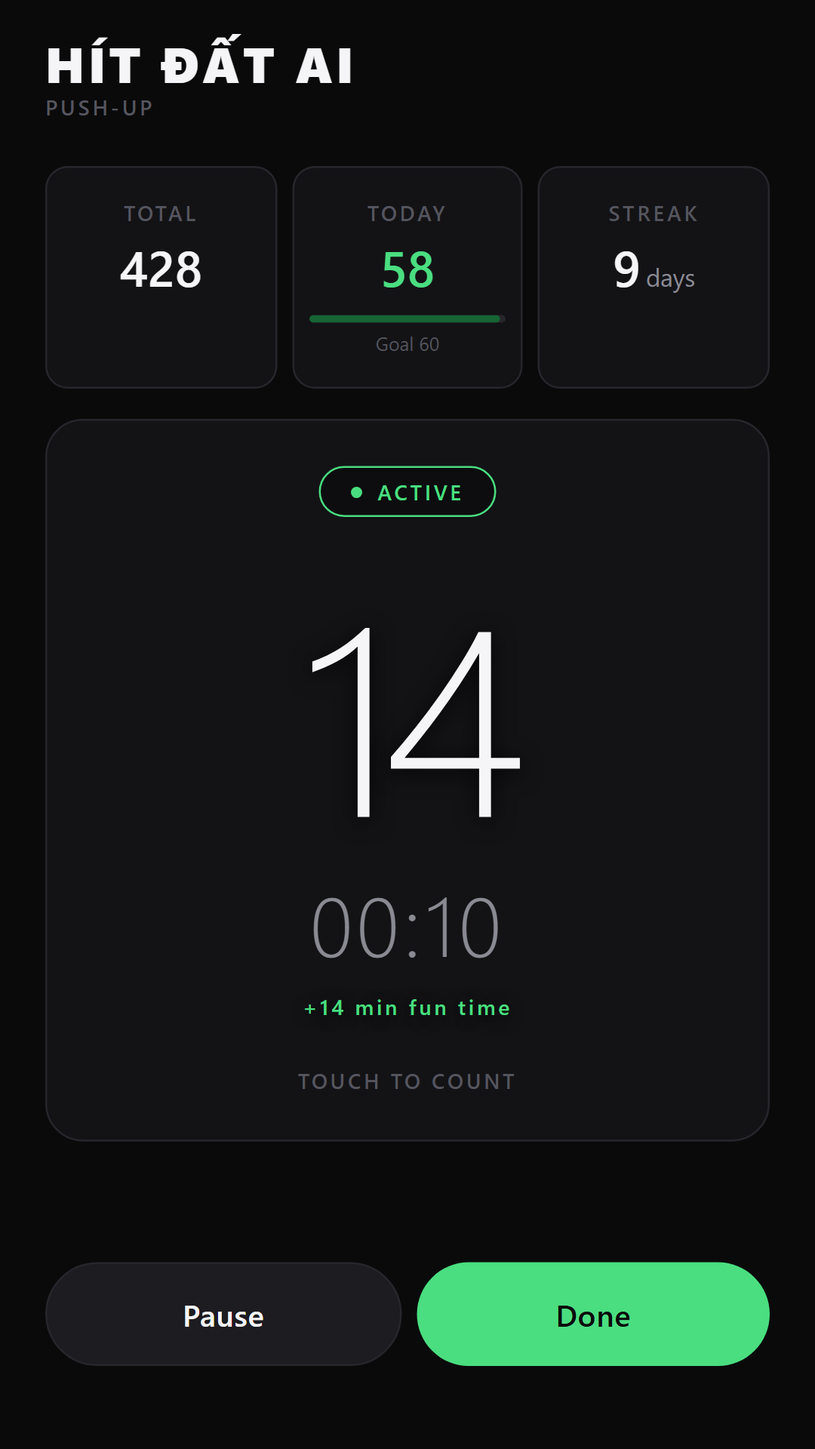
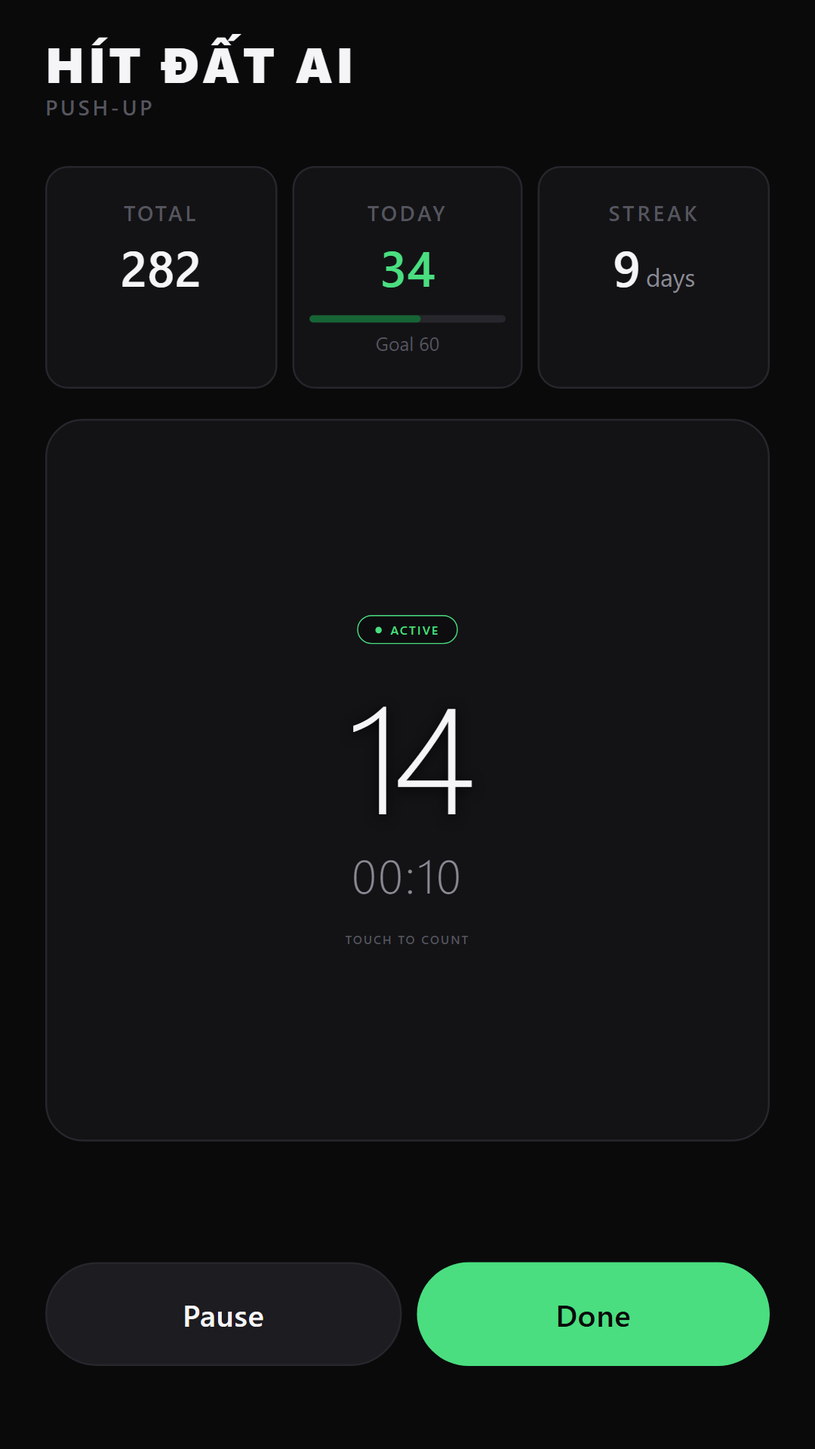
docs: store listing, privacy policy and screenshots for the new features
Listing copy for 38 exercises, the 4-week schedule, backups and
challenges, with a Data safety section; the privacy policy covers backup
files, the local error log and challenge links, all user-initiated.
Screenshots regenerated with `npm run screenshots`.

diff --git a/docs/privacy.html b/docs/privacy.html
@@ -25,13 +25,13 @@
 <body>
 <main>
   <h1>Hít Đất AI — Privacy Policy</h1>
-  <p class="meta">Effective 2 October 2026 · App package <code>com.betuanminh.hitdat</code> · <a href="#vi">Tiếng Việt bên dưới</a></p>
+  <p class="meta">Effective 3 October 2026 · App package <code>com.betuanminh.hitdat</code> · <a href="#vi">Tiếng Việt bên dưới</a></p>
 
   <h2>Summary</h2>
-  <p>Hít Đất AI does not collect, store or share any personal data. Everything the app records — your workouts, program progress, settings and app-blocker choices — stays on your device. There is no account, no analytics, no advertising and no tracking of any kind.</p>
+  <p>Hít Đất AI does not collect, store or share any personal data. Everything the app records — your workouts, schedule progress, settings, challenges and app-blocker choices — stays on your device. There is no account, no analytics, no advertising and no tracking of any kind. The only ways anything leaves your phone are the backup files, reports and challenge links described below, and each of them happens only when you share it yourself.</p>
 
   <h2>Camera</h2>
-  <p>The optional <strong>AI camera</strong> mode uses your front camera to count your reps (push-ups, squats, sit-ups, jumping jacks) by estimating body position. Frames are processed <strong>on your device</strong>, in real time, and are never recorded, stored or uploaded. The camera is only active while a camera-mode workout is running, and you can use the sensor, motion or tap modes instead without ever granting camera access.</p>
+  <p>The optional <strong>AI camera</strong> mode uses your front camera to count your reps and time your holds (38 exercises, such as push-ups, squats and planks) by estimating body position. Frames are processed <strong>on your device</strong>, in real time, and are never recorded, stored or uploaded. The camera is only active while a camera-mode workout is running, and you can use the sensor, motion or tap modes instead without ever granting camera access.</p>
   <p>To run the pose model, the app loads the detector page and the model file over the internet (from GitHub Pages, the jsDelivr CDN and Google Cloud Storage). These are ordinary static file downloads; like any web request they expose your IP address to those hosts, which is not something the app controls or records. No workout data is sent anywhere.</p>
 
   <h2>Motion sensors</h2>
@@ -51,11 +51,22 @@
   <h2>Data stored on your device</h2>
   <ul>
     <li>Workout history: date, rep counts, set durations, which exercise and counting mode was used.</li>
-    <li>Program progress: your test result, level and completed days.</li>
-    <li>Settings: goal, countdown and rest lengths, sound, vibration, voice, language, reminder time.</li>
+    <li>Training schedule progress: your level and completed days.</li>
+    <li>Settings: goal, countdown and rest lengths, sound, vibration, voice, language, reminder time, and the optional name you choose for challenge links.</li>
+    <li>Challenges you sent and received: exercise, scores, the other person's chosen display name, date.</li>
+    <li>"Miscounted?" notes you saved: the exercise, the counted and real numbers, your optional note.</li>
+    <li>A local error log: the last 20 app errors (error message and code location, no personal data), used only in reports you choose to send.</li>
     <li>App blocker: the apps and websites you chose to block, your earned fun time, and whether blocking is on.</li>
   </ul>
   <p>You can delete all of it at any time from <em>Settings → Delete all data</em>, or by uninstalling the app. Android may include this data in your device backup according to your own backup settings.</p>
+
+  <h2>Things you can choose to share</h2>
+  <h3>Backup files</h3>
+  <p><em>Settings → Back up data</em> writes your history, settings, schedule progress and challenges into a JSON file and opens your phone's share sheet; you decide where it goes (Google Drive, a messaging app, email, your files). The app does not upload it anywhere itself, and keeps no copy online. <em>Restore from a backup</em> reads a file you pick and shows what is in it before changing anything.</p>
+  <h3>Feedback and error reports</h3>
+  <p>The app has no crash-reporting service. If something breaks, the error is kept in the local log described above. <em>Send feedback / report a problem</em>, the error screen and <em>Miscounted?</em> each open a plain-text report in your share sheet, so you can read all of it first: the app version, your phone's model and Android version, your language, recent errors, and for a miscount the exercise and the two numbers. Nothing is sent unless you share it, and only to the place you pick.</p>
+  <h3>Challenge links</h3>
+  <p>A challenge link carries the exercise, the format, your score, the date, a random id and the display name you chose (it can be left blank). It is created only when you tap <em>Challenge friends</em> or <em>Rematch</em>, and goes wherever you share it. The challenge is stored in the part of the address after <code>#</code>, which browsers never send to a server, so opening <code>challenge.html</code> on GitHub Pages does not reveal it to GitHub. The page itself collects nothing. Scores are not verified.</p>
 
   <h2>Notifications</h2>
   <p>The daily reminder is a local notification scheduled on your device. Nothing is sent to a server and no push-notification token is created.</p>
@@ -83,13 +94,13 @@
 
   <section class="lang" id="vi" lang="vi">
     <h1>Hít Đất AI — Chính sách quyền riêng tư</h1>
-    <p class="meta">Có hiệu lực từ 02/10/2026 · Gói ứng dụng <code>com.betuanminh.hitdat</code></p>
+    <p class="meta">Có hiệu lực từ 03/10/2026 · Gói ứng dụng <code>com.betuanminh.hitdat</code></p>
 
     <h2>Tóm tắt</h2>
-    <p>Hít Đất AI không thu thập, lưu trữ hay chia sẻ bất kỳ dữ liệu cá nhân nào. Mọi thứ ứng dụng ghi lại — buổi tập, tiến độ chương trình, cài đặt và lựa chọn chặn ứng dụng — đều nằm trên thiết bị của bạn. Không có tài khoản, không phân tích, không quảng cáo, không theo dõi dưới bất kỳ hình thức nào.</p>
+    <p>Hít Đất AI không thu thập, lưu trữ hay chia sẻ bất kỳ dữ liệu cá nhân nào. Mọi thứ ứng dụng ghi lại — buổi tập, tiến độ lịch tập, cài đặt, thách đấu và lựa chọn chặn ứng dụng — đều nằm trên thiết bị của bạn. Không có tài khoản, không phân tích, không quảng cáo, không theo dõi dưới bất kỳ hình thức nào. Dữ liệu chỉ rời khỏi máy qua tệp sao lưu, báo cáo và link thách đấu mô tả bên dưới, và chỉ khi chính bạn chia sẻ.</p>
 
     <h2>Camera</h2>
-    <p>Chế độ <strong>Camera AI</strong> (tuỳ chọn) dùng camera trước để đếm số cái (hít đất, squat, gập bụng, bật nhảy) bằng cách ước lượng tư thế cơ thể. Khung hình được xử lý <strong>ngay trên thiết bị</strong>, theo thời gian thực, không bao giờ được ghi lại, lưu trữ hay tải lên. Camera chỉ hoạt động khi bạn đang tập ở chế độ camera; bạn có thể dùng chế độ Cảm biến, Chuyển động hoặc Chạm mà không cần cấp quyền camera.</p>
+    <p>Chế độ <strong>Camera AI</strong> (tuỳ chọn) dùng camera trước để đếm số cái và tính giờ giữ tư thế (38 bài tập, ví dụ hít đất, squat, plank) bằng cách ước lượng tư thế cơ thể. Khung hình được xử lý <strong>ngay trên thiết bị</strong>, theo thời gian thực, không bao giờ được ghi lại, lưu trữ hay tải lên. Camera chỉ hoạt động khi bạn đang tập ở chế độ camera; bạn có thể dùng chế độ Cảm biến, Chuyển động hoặc Chạm mà không cần cấp quyền camera.</p>
     <p>Để chạy mô hình nhận diện tư thế, ứng dụng tải trang nhận diện và tệp mô hình qua internet (từ GitHub Pages, CDN jsDelivr và Google Cloud Storage). Đây là các tệp tĩnh thông thường; như mọi yêu cầu web, địa chỉ IP của bạn được các máy chủ đó nhìn thấy — ứng dụng không kiểm soát hay ghi lại điều này. Không có dữ liệu tập luyện nào được gửi đi.</p>
 
     <h2>Cảm biến chuyển động</h2>
@@ -109,11 +120,22 @@
     <h2>Dữ liệu lưu trên thiết bị</h2>
     <ul>
       <li>Lịch sử tập: ngày giờ, số cái, thời lượng từng set, bài tập và chế độ đếm đã dùng.</li>
-      <li>Tiến độ chương trình: kết quả kiểm tra, cấp độ, các ngày đã hoàn thành.</li>
-      <li>Cài đặt: mục tiêu, thời gian đếm ngược và nghỉ, âm thanh, rung, giọng đọc, ngôn ngữ, giờ nhắc.</li>
+      <li>Tiến độ lịch tập: cấp độ và các ngày đã hoàn thành.</li>
+      <li>Cài đặt: mục tiêu, thời gian đếm ngược và nghỉ, âm thanh, rung, giọng đọc, ngôn ngữ, giờ nhắc, và tên (tuỳ chọn) hiện trên link thách đấu.</li>
+      <li>Thách đấu đã gửi và nhận: bài tập, điểm, tên hiển thị người kia chọn, ngày.</li>
+      <li>Ghi chú "Đếm sai?" bạn đã lưu: bài tập, số máy đếm và số thực tế, ghi chú tuỳ chọn.</li>
+      <li>Nhật ký lỗi trên máy: 20 lỗi gần nhất của ứng dụng (thông báo lỗi và vị trí trong mã, không có dữ liệu cá nhân), chỉ dùng trong báo cáo bạn chọn gửi.</li>
       <li>Chặn ứng dụng: các ứng dụng và trang web bạn chọn chặn, thời gian giải trí đã kiếm được, và việc chặn đang bật hay tắt.</li>
     </ul>
     <p>Bạn có thể xoá toàn bộ bất cứ lúc nào tại <em>Cài đặt → Xoá toàn bộ dữ liệu</em>, hoặc gỡ ứng dụng. Android có thể đưa dữ liệu này vào bản sao lưu thiết bị theo cài đặt sao lưu của riêng bạn.</p>
+
+    <h2>Những gì bạn có thể chọn chia sẻ</h2>
+    <h3>Tệp sao lưu</h3>
+    <p><em>Cài đặt → Sao lưu dữ liệu</em> ghi lịch sử, cài đặt, tiến độ lịch tập và thách đấu vào một tệp JSON rồi mở bảng chia sẻ của máy; bạn tự chọn nơi lưu (Google Drive, ứng dụng nhắn tin, email, thư mục trên máy). Ứng dụng không tự tải tệp lên đâu và không giữ bản nào trên mạng. <em>Khôi phục từ bản sao lưu</em> đọc tệp bạn chọn và cho xem trước nội dung trước khi thay đổi gì.</p>
+    <h3>Phản hồi và báo lỗi</h3>
+    <p>Ứng dụng không dùng dịch vụ báo lỗi nào. Khi có lỗi, lỗi được giữ trong nhật ký trên máy nêu ở trên. <em>Gửi phản hồi / báo lỗi</em>, màn hình lỗi và <em>Đếm sai?</em> đều mở một báo cáo dạng văn bản trong bảng chia sẻ để bạn đọc hết trước: phiên bản ứng dụng, dòng máy và phiên bản Android, ngôn ngữ, các lỗi gần đây, và với báo cáo đếm sai thì thêm bài tập và hai con số. Không có gì được gửi nếu bạn không chia sẻ, và chỉ tới nơi bạn chọn.</p>
+    <h3>Link thách đấu</h3>
+    <p>Link thách đấu chứa bài tập, thể thức, điểm của bạn, ngày, một mã ngẫu nhiên và tên hiển thị bạn chọn (có thể để trống). Link chỉ được tạo khi bạn bấm <em>Thách bạn bè</em> hoặc <em>Phục thù</em>, và đi tới nơi bạn chia sẻ. Thông tin thách đấu nằm sau dấu <code>#</code> của địa chỉ, phần mà trình duyệt không bao giờ gửi lên máy chủ, nên mở <code>challenge.html</code> trên GitHub Pages không để lộ nó cho GitHub. Trang đó không thu thập gì. Điểm không được kiểm chứng.</p>
 
     <h2>Thông báo</h2>
     <p>Nhắc tập hằng ngày là thông báo cục bộ được lên lịch trên thiết bị. Không có gì được gửi lên máy chủ và không tạo token thông báo đẩy.</p>

diff --git a/store/listing.md b/store/listing.md
@@ -26,48 +26,42 @@ Hít Đất AI: Push-up Counter
 **Short description** (80)
 
 ```
-Hands-free push-up counter. AI camera, 6-week program, goals and streaks.
+AI camera counts 38 exercises hands-free. 4-week plan, streaks and challenges.
 ```
 
 **Full description**
 
 ```
-Put the phone down and just do push-ups. Hít Đất AI counts every rep for you — with the camera, the sensor, or a tap of your nose — and turns them into a habit.
+Put the phone down and just train. Hít Đất AI counts every rep for you — with the camera, the sensor, or a tap — and turns it into a habit.
 
 COUNTS HANDS-FREE
-• Four exercises: push-ups, squats, sit-ups and jumping jacks. Pick one before you start, and it shows you where to put the phone.
-• AI camera: prop the phone up, get into position, and the camera counts your reps and coaches your form ("go lower", "keep your body straight").
-• Sensor mode for push-ups: phone on the floor, cover the sensor at the bottom of each rep.
-• Motion mode: squats with the phone in your pocket, sit-ups with it on your chest, jumping jacks with it in your hand.
-• Tap mode: works on every phone, no camera needed.
+• 38 exercises: push-ups and their variations, squats, lunges, sit-ups, crunches, bridges, burpees, jumping jacks, and holds such as the plank and wall sit, timed in seconds of good form.
+• AI camera: prop the phone up and the camera counts your reps and coaches your form ("go lower", "keep your body straight").
+• A setup card shows where to put the phone for each exercise — side or front, how far, how high — and counting only starts once the camera can see every body part it needs. It tells you what is out of frame.
+• Sensor mode for push-ups, motion mode for squats, sit-ups and jumping jacks, and tap mode on every phone.
 • Voice count says each number out loud so you never look at the screen.
 
-REAL WORKOUTS
-• Countdown before every set so you can get into position.
-• Multiple sets with a rest timer between them.
-• Sound, vibration and voice cues at the start and end of every set.
+A REAL TRAINING PLAN
+• 4-week schedule at three levels — beginner, intermediate, advanced — mixing exercises for the whole body.
+• Countdown before every set, rest timer between sets, sound, vibration and voice cues.
 
-6-WEEK PROGRAM
-• Take a one-set max test and get a program sized to you: 18 workouts, 5 sets each, three days a week.
-• Targets grow every workout. Sets complete themselves when you hit the number, and the last set is always "as many as you can".
-• Redo any day, retake the test for a harder cycle.
+CHALLENGE YOUR FRIENDS
+• Set a score — most reps in 30, 60 or 120 seconds, or the longest hold — and send a friend the link.
+• They take it in their own app; you see who won and can ask for a rematch. Challenges are counted by the camera only, so everyone plays by the same rules.
+• No account and no server: the challenge lives in the link itself.
 
 STAY MOTIVATED
-• Daily goal with a progress bar.
-• Streak of consecutive days with reps.
-• Weekly chart and personal records, for all exercises or one at a time, and 21 achievements.
+• Daily goal with a progress bar, streak of consecutive days, weekly chart, personal records and achievements.
 • Share your result after every workout.
 
 EARN YOUR SCREEN TIME
-• Pick the apps and websites that eat your time (social media, videos, games) and Hít Đất AI locks them, in the browser too.
-• Every push-up earns a minute of use; you choose the rate. Squats and sit-ups earn half of that, jumping jacks a quarter. A small timer counts it down while you scroll.
-• Out of time? The app stays covered until you do more push-ups. Switch it off whenever you like.
+• Pick the apps and websites that eat your time and Hít Đất AI locks them until your reps earn you time on them. You choose the rate.
 
-PRIVATE BY DESIGN
-• No account. No ads. No analytics.
+YOUR DATA, YOUR PHONE
+• No account. No ads. No analytics. No tracking.
 • Camera frames are processed on your phone and never uploaded.
-• The app blocker only checks which app is open, on your phone.
-• All history stays on your device — delete it any time.
+• Back up your history to a file you keep (Drive, Zalo, email…) and restore it on a new phone, with a preview first.
+• Something counted wrong or crashed? Send a report through your share sheet — you read it first, and nothing is sent automatically.
 
 Available in English and Vietnamese.
 ```
@@ -83,48 +77,42 @@ Hít Đất AI: Đếm bằng camera
 **Short description** (80)
 
 ```
-Đếm hít đất rảnh tay. Camera AI, chương trình 6 tuần, mục tiêu và chuỗi ngày.
+Camera AI đếm 38 bài tập rảnh tay. Lịch tập 4 tuần, chuỗi ngày và thách đấu.
 ```
 
 **Full description**
 
 ```
-Đặt điện thoại xuống và chỉ việc hít đất. Hít Đất AI đếm từng cái cho bạn — bằng camera, cảm biến, hoặc chạm mũi — và biến nó thành thói quen.
+Đặt điện thoại xuống và chỉ việc tập. Hít Đất AI đếm từng cái cho bạn — bằng camera, cảm biến hoặc chạm — và biến nó thành thói quen.
 
 ĐẾM RẢNH TAY
-• Bốn bài tập: hít đất, squat, gập bụng và bật nhảy. Chọn bài trước khi tập, bài nào cũng hướng dẫn cách đặt máy.
-• Camera AI: dựng điện thoại lên, vào tư thế, camera đếm số cái và nhắc tư thế ("xuống thấp hơn", "giữ thẳng người").
-• Chế độ cảm biến cho hít đất: đặt máy trên sàn, che cảm biến ở điểm thấp nhất mỗi cái.
-• Chế độ chuyển động: squat với máy trong túi quần, gập bụng với máy áp trên ngực, bật nhảy với máy cầm trong tay.
-• Chế độ chạm: chạy trên mọi máy, không cần camera.
+• 38 bài tập: hít đất và các biến thể, squat, lunge, gập bụng, crunch, cầu mông, burpee, bật nhảy, và các bài giữ tư thế như plank, ngồi dựa tường — tính bằng số giây giữ đúng tư thế.
+• Camera AI: dựng điện thoại lên, camera đếm số cái và nhắc tư thế ("xuống thấp hơn", "giữ thẳng người").
+• Thẻ hướng dẫn cho từng bài: đặt máy bên hông hay trước mặt, cách bao xa, cao bao nhiêu. Máy chỉ bắt đầu đếm khi camera đã thấy đủ các phần cơ thể cần thiết, và báo phần nào đang ra khỏi khung hình.
+• Chế độ cảm biến cho hít đất, chuyển động cho squat, gập bụng, bật nhảy, và chạm màn hình trên mọi máy.
 • Đọc số bằng giọng nói, không cần nhìn màn hình.
 
-BUỔI TẬP THỰC SỰ
-• Đếm ngược trước mỗi set để kịp vào tư thế.
-• Nhiều set, có đồng hồ nghỉ giữa các set.
-• Âm thanh, rung và giọng nói báo đầu và cuối mỗi set.
+LỊCH TẬP THỰC SỰ
+• Lịch tập 4 tuần với ba cấp độ — mới tập, trung bình, nâng cao — kết hợp các bài cho toàn thân.
+• Đếm ngược trước mỗi set, đồng hồ nghỉ giữa các set, âm thanh, rung và giọng nói.
 
-CHƯƠNG TRÌNH 6 TUẦN
-• Làm bài kiểm tra một set tối đa để nhận chương trình đúng sức: 18 buổi, mỗi buổi 5 set, 3 ngày một tuần.
-• Mục tiêu tăng dần qua từng buổi. Set tự kết thúc khi đủ số, set cuối luôn là "cố hết sức".
-• Tập lại bất kỳ ngày nào, kiểm tra lại để lên vòng khó hơn.
+THÁCH ĐẤU BẠN BÈ
+• Lập điểm — nhiều cái nhất trong 30, 60 hoặc 120 giây, hoặc giữ tư thế lâu nhất — rồi gửi link cho bạn bè.
+• Họ nhận thách đấu trên app của mình; bạn biết ai thắng và có thể phục thù. Thách đấu chỉ tính khi đếm bằng camera, để ai cũng cùng một luật.
+• Không tài khoản, không máy chủ: thách đấu nằm ngay trong link.
 
 GIỮ ĐỘNG LỰC
-• Mục tiêu mỗi ngày với thanh tiến độ.
-• Chuỗi ngày tập liên tiếp.
-• Biểu đồ tuần và kỷ lục cá nhân, xem chung hoặc theo từng bài, cùng 21 thành tích.
+• Mục tiêu mỗi ngày, chuỗi ngày tập liên tiếp, biểu đồ tuần, kỷ lục cá nhân và thành tích.
 • Chia sẻ kết quả sau mỗi buổi tập.
 
 ĐỔI HÍT ĐẤT LẤY GIỜ GIẢI TRÍ
-• Chọn những ứng dụng và trang web hay ngốn thời gian (mạng xã hội, video, game), Hít Đất AI sẽ khoá chúng, cả trong trình duyệt.
-• Mỗi cái hít đất đổi được 1 phút sử dụng, tuỳ chỉnh được. Squat và gập bụng được một nửa, bật nhảy một phần tư. Đồng hồ nhỏ đếm ngược khi bạn lướt.
-• Hết giờ? Ứng dụng bị che lại cho tới khi bạn hít đất tiếp. Tắt bất cứ lúc nào.
+• Chọn ứng dụng và trang web hay ngốn thời gian, Hít Đất AI sẽ khoá chúng cho tới khi bạn tập để đổi lấy thời gian dùng. Tỉ lệ đổi tuỳ bạn chọn.
 
-RIÊNG TƯ TỪ THIẾT KẾ
-• Không tài khoản. Không quảng cáo. Không theo dõi.
+DỮ LIỆU CỦA BẠN, TRÊN MÁY BẠN
+• Không tài khoản. Không quảng cáo. Không phân tích. Không theo dõi.
 • Khung hình camera xử lý ngay trên máy, không bao giờ tải lên.
-• Tính năng chặn ứng dụng chỉ kiểm tra ứng dụng nào đang mở, ngay trên máy.
-• Toàn bộ lịch sử nằm trên máy bạn — xoá bất cứ lúc nào.
+• Sao lưu lịch sử ra tệp bạn tự giữ (Drive, Zalo, email…) và khôi phục trên máy mới, có xem trước.
+• Đếm sai hay app bị lỗi? Gửi báo cáo qua bảng chia sẻ — bạn đọc trước, không có gì tự động gửi đi.
 
 Có tiếng Việt và tiếng Anh.
 ```
@@ -142,22 +130,35 @@ Có tiếng Việt và tiếng Anh.
 | Ads | No, the app contains no ads |
 | App access | All functionality available without special access |
 | Target audience | 18 and over (simplest; no children's-policy obligations) |
-| Content rating (IARC) | Answer "No" to everything → Everyone |
+| Content rating (IARC) | Answer "No" to everything → Everyone. User-to-user content: challenge links carry a display name the sender types, but they are shared outside the app (any messaging app); there is no in-app chat, feed or profile |
 | News app | No |
 | COVID-19 contact tracing / status | No |
 | Government app | No |
 | Financial features | None |
 | Health | "My app is a fitness/wellness app": no medical claims, no Health Connect |
 
-## Data safety form
+## Data safety
 
-Play asks whether the app **collects** or **shares** user data, where "collect" means data that leaves the device.
+Play asks whether the app **collects** or **shares** user data, where "collect" means data that leaves the device to the developer or a third party. Data the user sends themselves, to a destination they choose, through the system share sheet is **not** collection: Play's definition excludes "user-initiated" transfers the user can see, such as sharing a file or a message.
+
+### Form answers
 
 | Question | Answer | Why |
 | --- | --- | --- |
-| Does your app collect or share any of the required user data types? | **No** | Workouts, settings and program progress are stored only on the device. Nothing is transmitted. |
-| Is all user data encrypted in transit? | n/a (nothing collected) | The only network traffic is downloading static files for the pose detector. |
-| Do you provide a way for users to request deletion? | n/a | "Delete all data" in Settings wipes local storage. |
+| Does your app collect or share any of the required user data types? | **No** | Workouts, schedule, settings, challenges, miscount notes and the error log are stored only on the device. The app has no backend, no analytics SDK and no crash-reporting SDK. |
+| Is all user data encrypted in transit? | n/a (nothing collected) | The only network traffic the app makes itself is downloading static files: the pose detector page (GitHub Pages), the MediaPipe library (jsDelivr) and the model (Google Cloud Storage). |
+| Do you provide a way for users to request deletion? | n/a | "Delete all data" in Settings wipes local storage, including challenges, miscount notes and the error log. |
+
+### What stays on the device, and what the user may share
+
+| Data | Stored | Leaves the device only when |
+| --- | --- | --- |
+| Workout history, schedule progress, settings | AsyncStorage | The user exports a backup file and shares it (share sheet / file picker). Never uploaded by the app. |
+| Challenges sent and received (exercise, scores, display names) | AsyncStorage | The user taps *Challenge friends* / *Rematch*; the link holds the exercise, format, score, date, a random id and the optional display name. The payload is in the URL fragment, so GitHub Pages never receives it. |
+| "Miscounted?" notes | AsyncStorage | The user taps *Send report*: plain text in the share sheet. |
+| Local error log (last 20 JS errors: message + stack, no personal data) | AsyncStorage | Included in a feedback / miscount / crash report the user reads and shares. No automatic crash reporting. |
+| Device details in reports (model, Android version, app version, language) | Not stored | Only inside a report the user shares. No device identifiers (no Android ID, no advertising ID). |
+| Camera frames | Never stored | Never. Processed on device in real time. |
 
 Camera: the camera is used only on device for live pose estimation; frames are never stored or transmitted. Declare no "Photos and videos" collection.
 
@@ -174,7 +175,11 @@ The manifest requests only:
 - `VIBRATE`, `INTERNET`, `MODIFY_AUDIO_SETTINGS` — normal permissions, no prompt
 - `HIGH_SAMPLING_RATE_SENSORS` — motion mode reads the phone's orientation fast enough to count a brisk jumping jack; normal permission, no prompt, no data leaves the device
 
+Backups need no storage permission: export goes through the share sheet (expo-sharing, a `content://` URI from the app's cache) and import through the system document picker (expo-document-picker). `READ_EXTERNAL_STORAGE` and `WRITE_EXTERNAL_STORAGE` stay blocked in `app.json`.
+
 `RECORD_AUDIO`, `ACTIVITY_RECOGNITION` and the media-playback foreground-service permission that the Expo modules add by default are blocked in `app.json`.
+
+Challenge links open the app through its `hitdat://` scheme (an intent filter for that scheme only; no App Links / `autoVerify`, no web domain claimed).
 
 The app blocker (`modules/app-blocker`) works either way the user chooses: usage access plus "display over other apps", run by a **special-use foreground service**, or an **accessibility service**. Many Vietnamese banking apps refuse to open while any accessibility service is on, which is why the first way exists. Each needs its own declaration, below. It finds installed apps and browsers through targeted `<queries>` intents, so `QUERY_ALL_PACKAGES` is not requested.
 

diff --git a/README.md b/README.md
@@ -4,10 +4,27 @@ Hands-free workout counter for Android (Expo / React Native): push-ups, squats,
 sit-ups and jumping jacks. Dark, minimal, pure `StyleSheet`, no navigation library.
 
 Counts reps with the camera, the light sensor, the phone's own movement or a tap;
-runs sets with a countdown and a rest timer; speaks the count; follows a 6-week
-push-up program; tracks a daily goal, streaks, records and achievements; and locks
+runs sets with a countdown and a rest timer; speaks the count; follows a 4-week
+training schedule; tracks a daily goal, streaks, records and achievements; and locks
 the apps you choose until your reps earn you time on them. English and Vietnamese.
 Everything stays on the device.
+
+Release-readiness extras, all without a backend:
+
+- **Backup / restore** (Settings): every `pupg:*` key the app owns, as a versioned
+  JSON file (`src/backup/`), out through the share sheet and back in through the
+  document picker, with a preview and a merge-or-replace choice.
+- **Camera setup card and visibility gate**: each exercise declares the joints it
+  needs (`POSE_NEEDS` in `src/pose/analyzers.js`); counting waits until they have
+  been in view for a second (`src/pose/visibility.js`), and the app says which body
+  part is out of frame. Pose page protocol 3; older pages still count as before.
+- **Local crash log** (`src/diagnostics/`): an error boundary and a global handler
+  keep the last 20 errors on the device. They only leave it inside a feedback,
+  crash or "Miscounted?" report the user reads and shares.
+- **Challenge links** (`src/challenge/`): timed camera-only challenges encoded into
+  `https://betuanminh22032003.github.io/push-up/challenge.html#<token>` (fragment,
+  so Pages never sees it) and the `hitdat://challenge?c=<token>` deep link.
+  `npm run build:challenge` regenerates `docs/challenge.html` from the codec.
 
 Store material lives in [`store/`](store/): listing copy, icon, feature graphic,
 screenshots, and the [release checklist](store/RELEASE-CHECKLIST.md) (Vietnamese).
